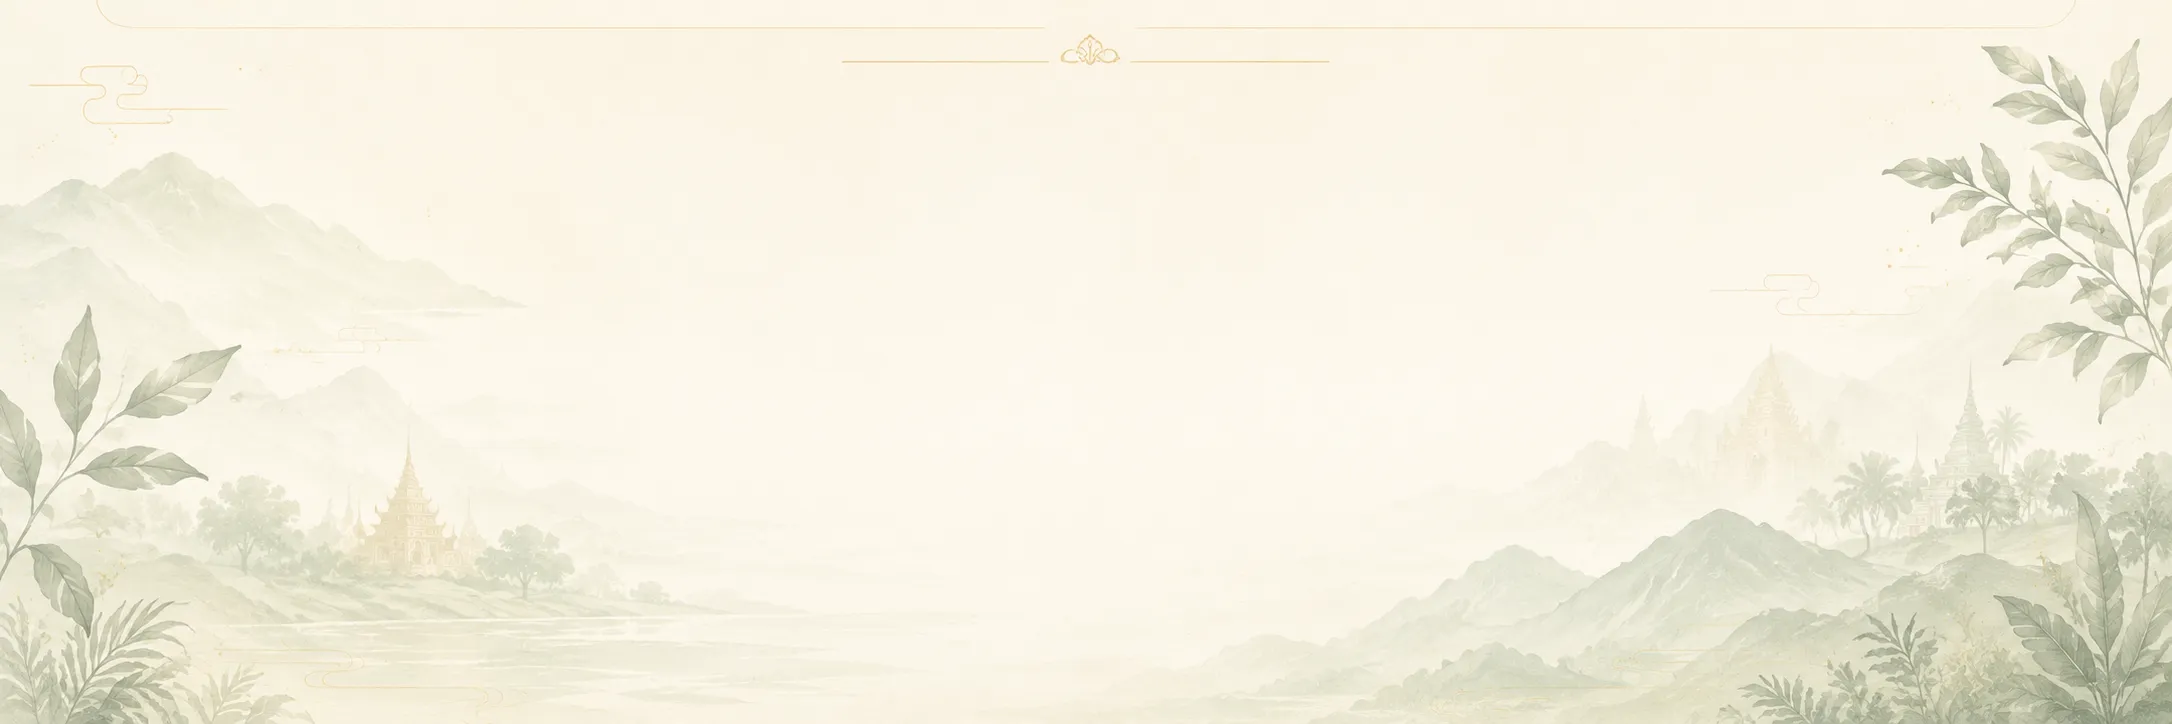
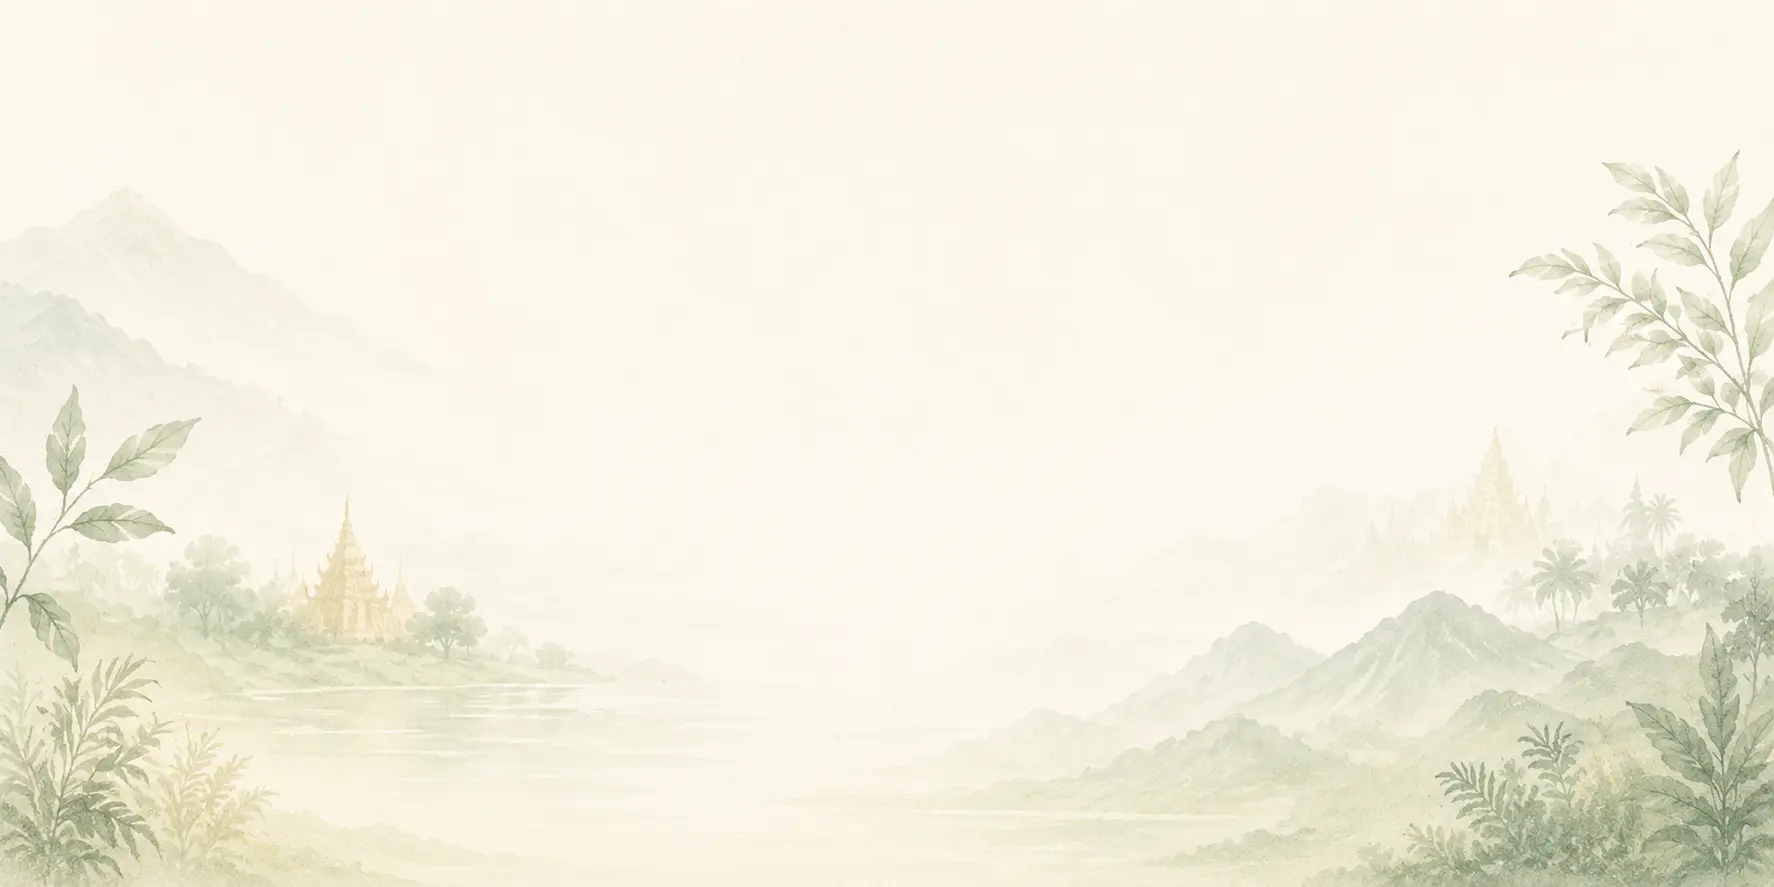
Update FAQ text and background images

diff --git a/src/components/ctc/CtcTopPage.tsx b/src/components/ctc/CtcTopPage.tsx
@@ -92,7 +92,7 @@ export default function CtcTopPage() {
                   <article className="feature-card fade-in">
                     <img src="/ctc-assets/icon1.webp" alt="" />
                     <h3>04. チェンマイに<br className="pc-only-br" />居場所ができる</h3>
-                    <p>在住者にも移住検討者も参加できます。</p>
+                    <p>在住者にも移住検討者にも参加できます。</p>
                   </article>
                 </div>
               </section>
@@ -111,7 +111,7 @@ export default function CtcTopPage() {
                       <img src="/ctc-assets/run.webp" alt="" />
                     </div>
                     <h3>朝ラン</h3>
-                    <p>毎週水曜 6:00〜。<br />溜池のほとりを自分のペースで。</p>
+                    <p>平日毎日 6:00〜。<br />溜池のほとりを自分のペースで。</p>
                   </article>
       
                   <article className="activity-card fade-in">
@@ -270,11 +270,21 @@ export default function CtcTopPage() {
                   <details className="faq-item">
                     <summary className="faq-q">
                       <span className="faq-q-icon">Q</span>
+                      <h3>参加費はかかりますか？</h3>
+                      <span className="faq-toggle"></span>
+                    </summary>
+                    <div className="faq-a">
+                      <p>参加費は無料です。</p>
+                    </div>
+                  </details>
+                  <details className="faq-item">
+                    <summary className="faq-q">
+                      <span className="faq-q-icon">Q</span>
                       <h3>Discordコミュニティに参加するには？</h3>
                       <span className="faq-toggle"></span>
                     </summary>
                     <div className="faq-a">
-                      <p>朝ランに参加した方をDiscordにご招待しています。参加費は無料です。まずは朝ランに来てください。</p>
+                      <p>朝ランに参加した方をDiscordにご招待しています。まずは朝ランに来てください。</p>
                     </div>
                   </details>
                   <details className="faq-item">
